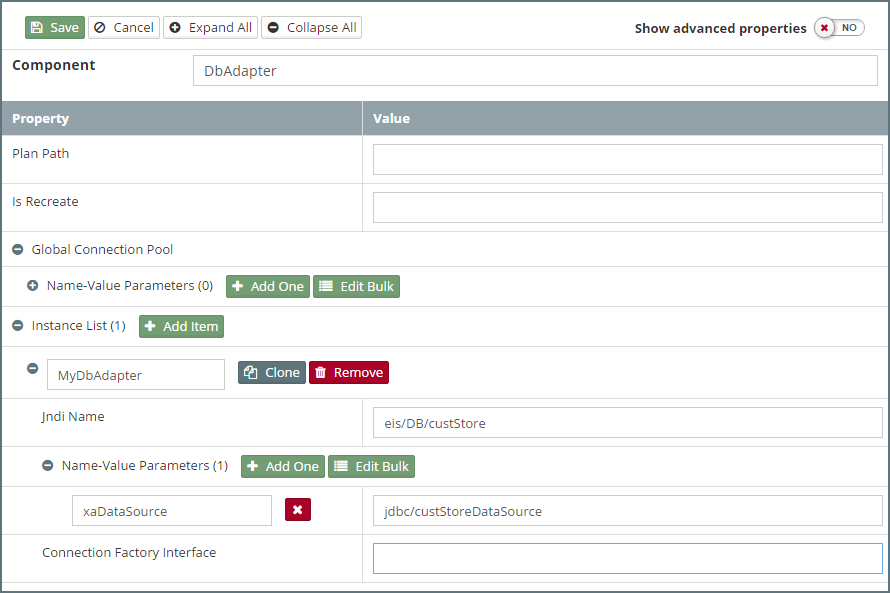
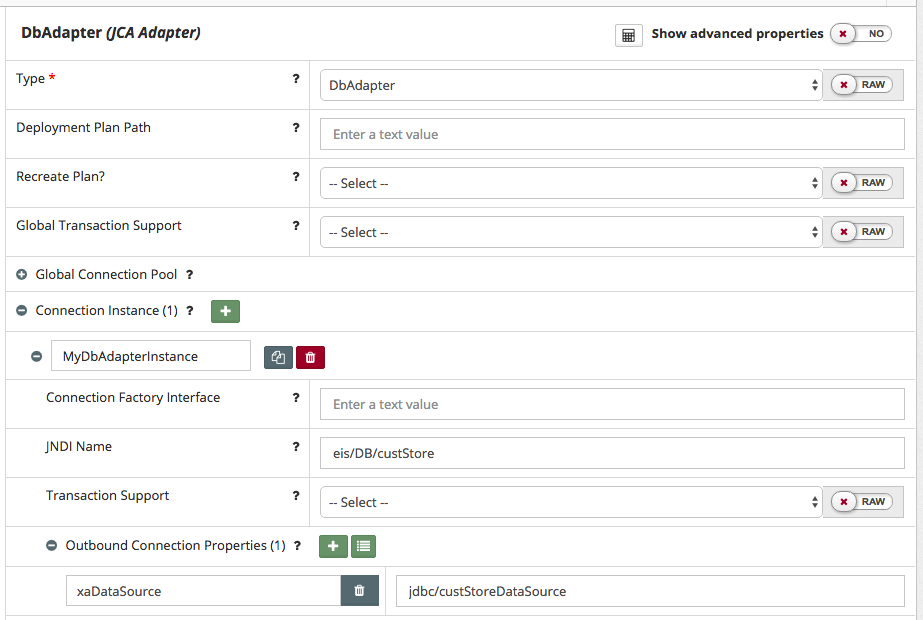
Updated the JCA Adapter docs for Platform 2.0

Changed region(s): [[0.0, 0.0, 1.0, 1.0]]

diff --git a/platform/resources/weblogic/jca-adapters/README.md b/platform/resources/weblogic/jca-adapters/README.md
@@ -2,44 +2,43 @@
 
 JCA Adapters are configured through deployment plans. MyST Studio has a mechanism for defining a JCA adapter configuration so that it can be used to generate the deployment plan when the platform is automatically provisioned or updated by MyST.
 
-Below is an example of the JCA Adapters that ship out-of-the-box with the SOA Suite in 12c. 
+Below is an example of the JCA Adapters that ship out-of-the-box with the SOA Suite in 12c.
 
 ![](img/jcaAdapters.png)
 
 Before these can be used by applications, they need to be configured. This chapter details how JCA Adapter configurations can be added to a Platform Blueprint.
 
 ### Add JCA Adapter to Platform Blueprint
-To add a new JCA Adapter in the Platform Blueprint, open the Platform Blueprint Editor and navigate to `Blueprint > WebLogic Domains > [domain_name] > JCA Adapters`. 
+To add a new JCA Adapter in the Platform Blueprint, open the Platform Blueprint Editor and navigate to `Blueprint > WebLogic Domain Configuration > JCA Adapters`.
 
-Click on the `+` icon next to JCA Adapters (outlined in red). This will create a new JCA Adapter, `Jca Adapter - 1` in the example below.
+Click on the `+` icon next to `JCA Adapters` (outlined in red). This will then prompt for adapter type.
 
 ![](img/createJcaAdapterStep1.png)
 
-Select the new JCA Adapter in the tree view, MyST will display its current configuration. Initially, none of its properties will be set. Click `Edit` to put the JCA Adapter into edit mode.
+After selecting the adapter type, MyST will display its current configuration. Initially, none of its properties will be set.
 
 Set the component name to the JCA Adapter type we want to configure, as shown in the WebLogic console. In the example below (outlined in red), we have set the component name to `DbAdapter`.
 
 ![](img/createJcaAdapterStep2.png)
 
-#### Create Adapter Instances
-For each instance of a JCA Adapter, we want to configure, we need to add a corresponding instance to our Platform Blueprint. Click on `Add Item` next to the `Instance List` (outlined in red above).
-
-MyST will add a new instance to our JCA Adapter. For each instance we need to provide the following property values:
-* **Name** -  Name of the JCA Adapter instance. This is used only for identifying the instance in MyST Studio and is not used for WebLogic.
-* **Jndi Name** -  The JNDI name of the adapter instance at runtime
-* **Name-Value Parameters** - Contains the name-value properties that are used to configure the JCA Adapter instance.
-
 > An alternative way of creating a new JCA Adapter instance is to select an existing instance, right click on it and select `Clone`.
 
-##### Add Name Value Parameters
-The Name-Value parameters are used to define properties that are used to configure the adapter instance. To add a property, click on `Add One` next to `Name-Value Parameters` and add the properties required to configure the JCS Adapter instance.
+#### Create Adapter Instances
+For each instance of a JCA Adapter, we want to configure, we need to add a corresponding instance to our JCA Adapter. Click on the `+` icon next to the `Connection Instance` (outlined in red above).
+
+MyST will add a new instance to our JCA Adapter. For each instance we need to provide the following property values:
+* **Identifier** -  This is used only for identifying the instance in MyST Studio and is not used for WebLogic.
+* **JNDI Name** -  The JNDI name of the adapter instance at runtime
+* **Outbound Connection Properties** - Contains the name-value properties that are used to configure the JCA Adapter instance.
+
+##### Add Outbound Connection Properties
+The Name-Value parameters are used to define properties that are used to configure the adapter instance. To add a property, click on the `+` icon next to `Outbound Connection Properties` and add the properties required to configure the JCA Adapter instance.
 
 ![](img/createJcaAdapterStep3.png)
 
-> Alternatively, click on `Edit Bulk` to open the property bulk editor
+> Alternatively, click on `Bulk Edit` to open the property bulk editor
 
-Some JCA adapters support the setting of global connection pool parameters. Setting connection pool parameters is supported for the following JCA Adapters: 
-
+Some JCA adapters support the setting of global connection pool parameters. Setting connection pool parameters is supported for the following JCA Adapters:
 
 * AQ Adapter
 * DB Adapter
@@ -48,10 +47,10 @@ Some JCA adapters support the setting of global connection pool parameters. Sett
 * Oracle Apps Adapter
 * Socket Adapter
 
-The connection pool parameters are set in the WebLogic Admin Console under the Connection Pool tab. The following table describes the MyST parameters that correspond to the fields on the WebLogic Admin Console. 
+The connection pool parameters are set in the WebLogic Admin Console under the Connection Pool tab. The following table describes the MyST parameters that correspond to the fields on the WebLogic Admin Console.
 
 | Admin Console Field | MyST Parameters |	Type|
-| --------- | ---------- | ----- | 
+| --------- | ---------- | ----- |
 |Max Capacity 	|max-capacity 	|Number|
 |Connection Reserve Timeout Seconds 	|connection-reserve-timeout-seconds 	|Number|
 |Highest Num Waiters 	|highest-num-waiters 	|Number|
@@ -67,14 +66,10 @@ The connection pool parameters are set in the WebLogic Admin Console under the C
 |Test Connections On Release 	|test-connections-on-release 	|Boolean|
 |Test Connections On Reserve 	|test-connections-on-reserve 	|Boolean|
 
-
 #### Edit JCA Adapter in Platform Blueprint
-To edit an existing JCA adapter in the Platform Blueprint, open the Platform Blueprint Editor and navigate to `Blueprint > WebLogic Domains > [domain_name] > JCA Adapters`. Expand this component to see a list of currently defined adapters and select the JCA adapter you wish to edit.
-
-Click `Edit` to put the JCA adapter into edit mode and enter the required values.
+To edit an existing JCA adapter in the Platform Blueprint, open the Platform Blueprint Editor and navigate to `Blueprint > WebLogic Domain Configuration > JCA Adapters`. Expand this component to see a list of currently defined adapters and select the JCA adapter you wish to edit.
 
 #### Delete Data Source from Platform Blueprint
-To delete an existing data source from a Platform Blueprint, open the Platform Blueprint Editor and navigate to `Blueprint > WebLogic Domains > [domain_name] > JCA Adapter`. 
+To delete an existing data source from a Platform Blueprint, open the Platform Blueprint Editor and navigate to `Blueprint > WebLogic Domain Configuration > JCA Adapter`.
 
-Expand this component to see a list of currently defined data sources. Select an existing JCA adapter, right click on it and select `Delete`.
-
+Expand this component to see a list of currently defined data sources. Select an existing JCA adapter, right click on it and select `Remove`.
